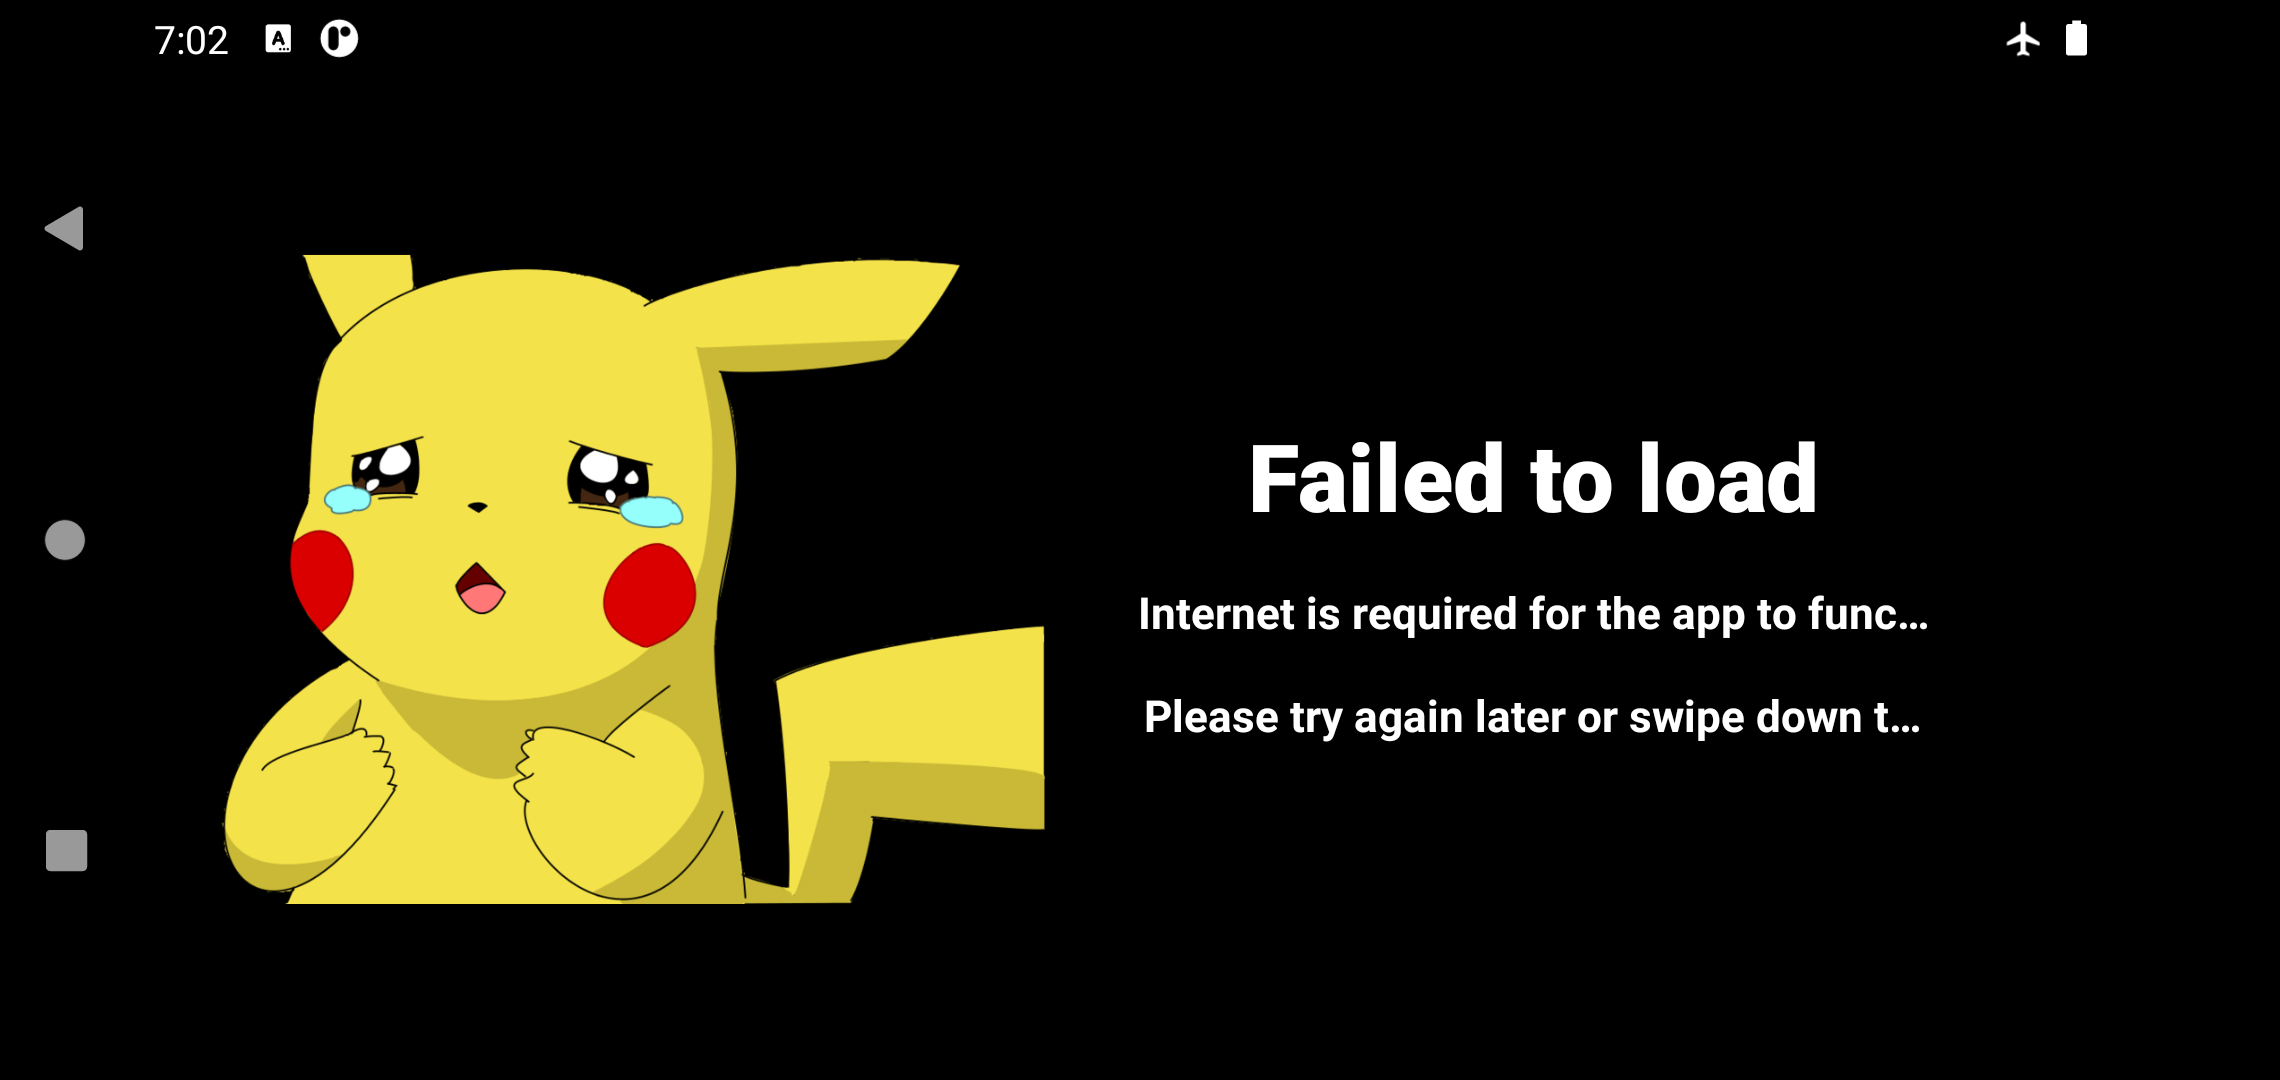
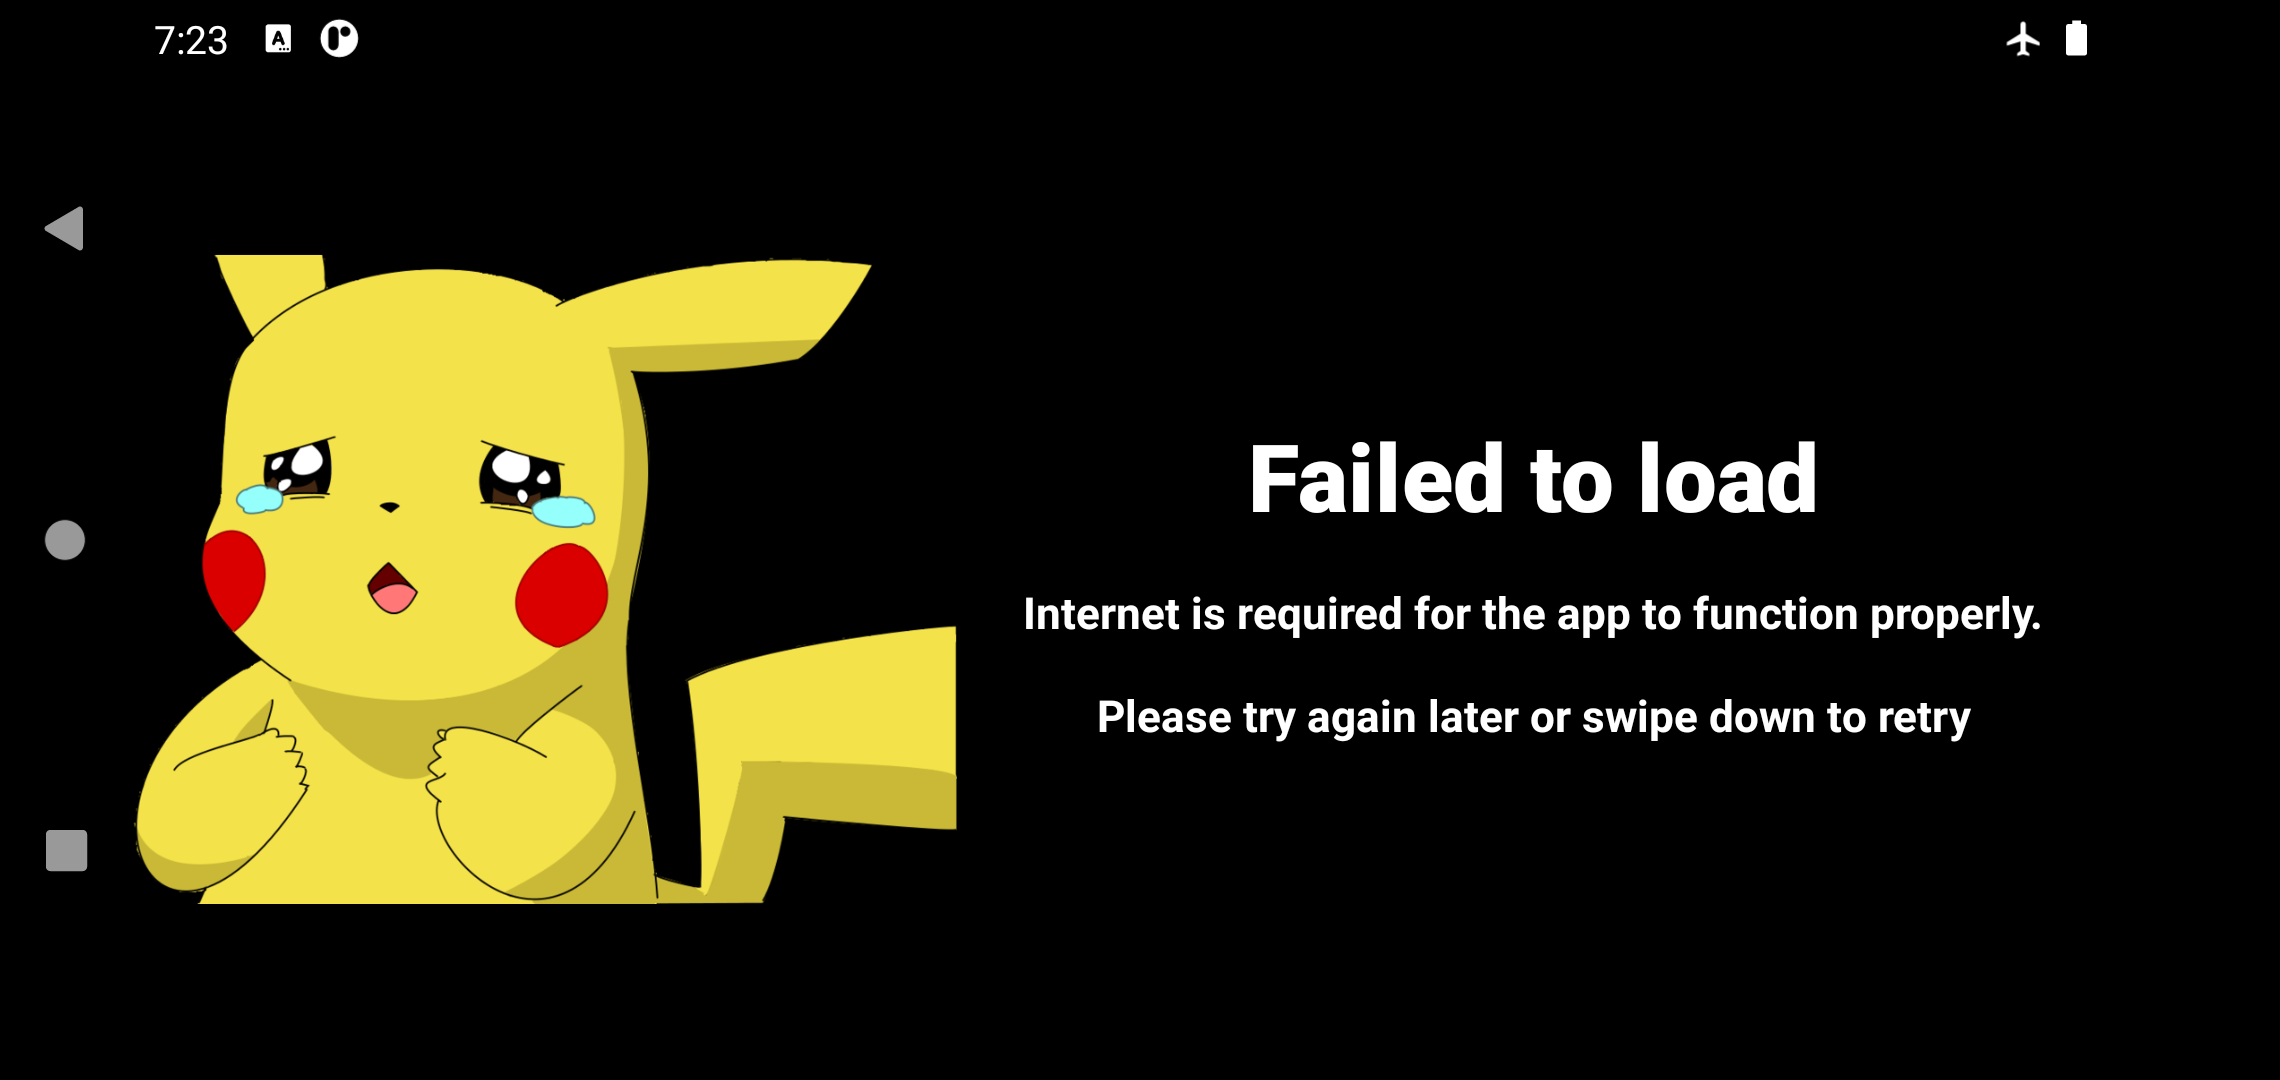
Update screenshots

Changed region(s): [[0.0623, 0.2139, 0.9031, 0.8556], [0.0623, 0.0306, 0.0934, 0.0611]]

diff --git a/app/src/main/java/com/kobeissidev/jetpackcomposepokedex/ui/composable/ErrorLayout.kt b/app/src/main/java/com/kobeissidev/jetpackcomposepokedex/ui/composable/ErrorLayout.kt
@@ -18,12 +18,14 @@ import androidx.compose.ui.text.style.TextAlign
 import androidx.compose.ui.unit.Dp
 import androidx.compose.ui.unit.dp
 import androidx.hilt.navigation.compose.hiltViewModel
+import androidx.paging.ExperimentalPagingApi
 import coil.compose.rememberImagePainter
 import com.google.accompanist.swiperefresh.SwipeRefresh
 import com.google.accompanist.swiperefresh.rememberSwipeRefreshState
 import com.kobeissidev.jetpackcomposepokedex.R
 import com.kobeissidev.jetpackcomposepokedex.ui.screen.MainViewModel
 
+@ExperimentalPagingApi
 @Composable
 fun ErrorLayout(
     viewModel: MainViewModel = hiltViewModel(),
@@ -43,9 +45,7 @@ fun ErrorLayout(
             )
         }
     ) {
-        val modifier = Modifier
-            .fillMaxSize()
-            .padding(all = 32.dp)
+        val modifier = Modifier.fillMaxSize()
 
         when (orientation) {
             Configuration.ORIENTATION_LANDSCAPE -> PokemonErrorLandscapeSection(
